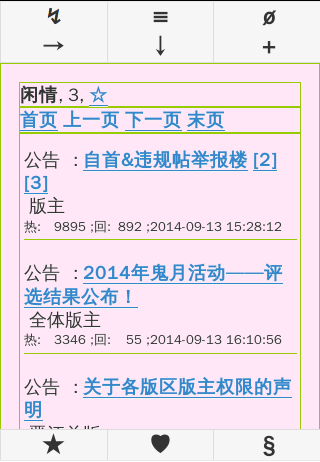
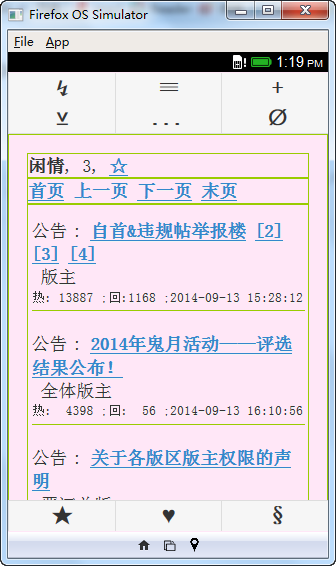
贴子页按钮整理
右边栏、顶部按钮转移

diff --git a/hjj/js/app_init.js b/hjj/js/app_init.js
@@ -7,9 +7,15 @@ $(document).bind("mobileinit", function()
      $.mobile.buttonMarkup.hoverDelay = 0;
    } 
 
-    //$.event.special.tap.tapholdThreshold = 10;
-    //$.event.special.swipe.horizontalDistanceThreshold = 3;
-    //$.event.special.swipe.verticalDistanceThreshold = 1000;
-    //$.event.special.swipe.durationThreshold = 4000;
-    //$.event.special.swipe.scrollSupressionThreshold = 1;
+        //$.event.special.swipe.durationThreshold = 4000;
+        //$.event.special.swipe.horizontalDistanceThreshold = 3;
+        //$.event.special.swipe.scrollSupressionThreshold = 1;
+        //$.event.special.swipe.verticalDistanceThreshold = 1000;
+
+        $.event.special.tap.tapholdThreshold = 10;
+
+        $.event.special.swipe.durationThreshold = 500; 
+        $.event.special.swipe.horizontalDistanceThreshold = 30;
+        $.event.special.swipe.scrollSupressionThreshold = 10; 
+        $.event.special.swipe.verticalDistanceThreshold = 75;
 });

diff --git a/hjj/css/app.css b/hjj/css/app.css
@@ -1,5 +1,5 @@
 body,div,table,ul,li,input,textarea  {
-    background-color: #ffe7f7;
+    background-color: #ffe7f7 !important;
     background-size: 100%;
     word-wrap: break-word;      
 }
@@ -64,7 +64,7 @@ textarea {
 
 .left_string {
     display : inline-block;
-    width : 18%;
+    width : 15%;
 }
 
 .hot {
@@ -73,9 +73,14 @@ textarea {
     width : 18%;
 }
 
+.panel {
+    width: 65% ;
+    overflow: auto !important; 
+}
+
 .popup_textarea {
     height: 60% ;
-    width: 90% ;
+    width: 95% ;
     overflow: auto !important; 
 }
 
@@ -96,6 +101,12 @@ input,select {
 
 .big_input {
     width: 60% ;
+}
+
+.smallnav {
+    text-align : left;
+    width: 16.65% !important;  
+    clear: none !important;  /* Prevent line break caused by ui-block-a */
 }
 
 /*.ui-page {  */

diff --git a/README.md b/README.md
@@ -18,40 +18,33 @@ android 版本（基于phonegap打包）：[HJJ-phonegap](https://build.phonegap
 
 ## 版块
 
-顶部按钮1：1）跳转到指定大院/门牌；2）版块列表；3）搜索
+顶部按钮1：1）跳转到指定大院/门牌；2）版块列表；3）发帖
 
-顶部按钮2：1）子版块；2）贴子类型；3）发帖
+顶部按钮2：1）子版块；2）暂未定义；3）搜索
 
 ![board.png](board.png)
 
 ## 贴子
 
-顶部按钮：1）跳转到指定楼层；2）返回本版；3）回帖
+顶部首层按钮：1）跳转到指定楼层；2）返回本版；3）调出右边面板
 
-楼层按钮：
+顶部二层按钮：1）只看楼主；2）只看图；3）按字数脱水；4）显示所有楼层；5）倒序；6）刷新
 
-1) 引用此楼内容回帖; 2) 不引用内容直接回复此楼
-
-3) 跳转到 顶部; 4) 跳转到底部
-
-5) 往 前 跳转N楼; 6) 往 后 跳转N楼
-
-7) 标记当前楼层
+楼层按钮： 标记当前楼层
 
 ![showmsg.png](showmsg.png)
 
+右边面板
 
-基础按钮：1）缓存；2）收藏；3）跳转到上一次标记的楼层；4）刷新
-
-![showmsg_btn_save.png](showmsg_btn_save.png)
-
-共享按钮：1）标签编辑；2）分享到weibo；3）推送到kindle
-
-![showmsg_btn_share.png](showmsg_btn_share.png)
+![showmsg_panel.png](showmsg_panel.png)
 
 ### 事件
 
 底部 左/右 侧单击：上一页/下一页
+
+楼层左滑：引用此楼内容回帖; 
+
+楼层右滑：不引用内容直接回复此楼
 
 ## 黑夜模式
 
@@ -68,7 +61,3 @@ android 版本（基于phonegap打包）：[HJJ-phonegap](https://build.phonegap
 ## 跳转到指定大院/门牌
 
 ![manual_jump.png](manual_jump.png)
-
-## ChangeLog
-
-2014-10-03 : 移除部分点击事件，处理滑动卡顿问题
